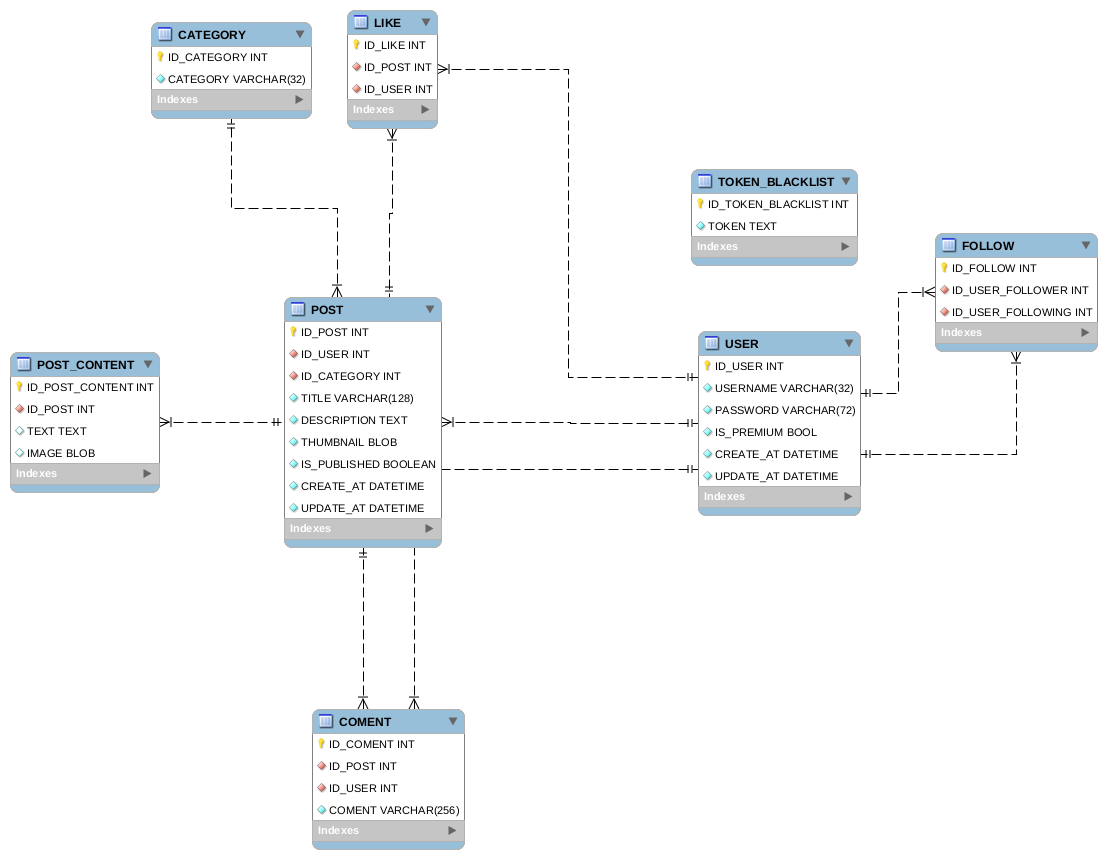
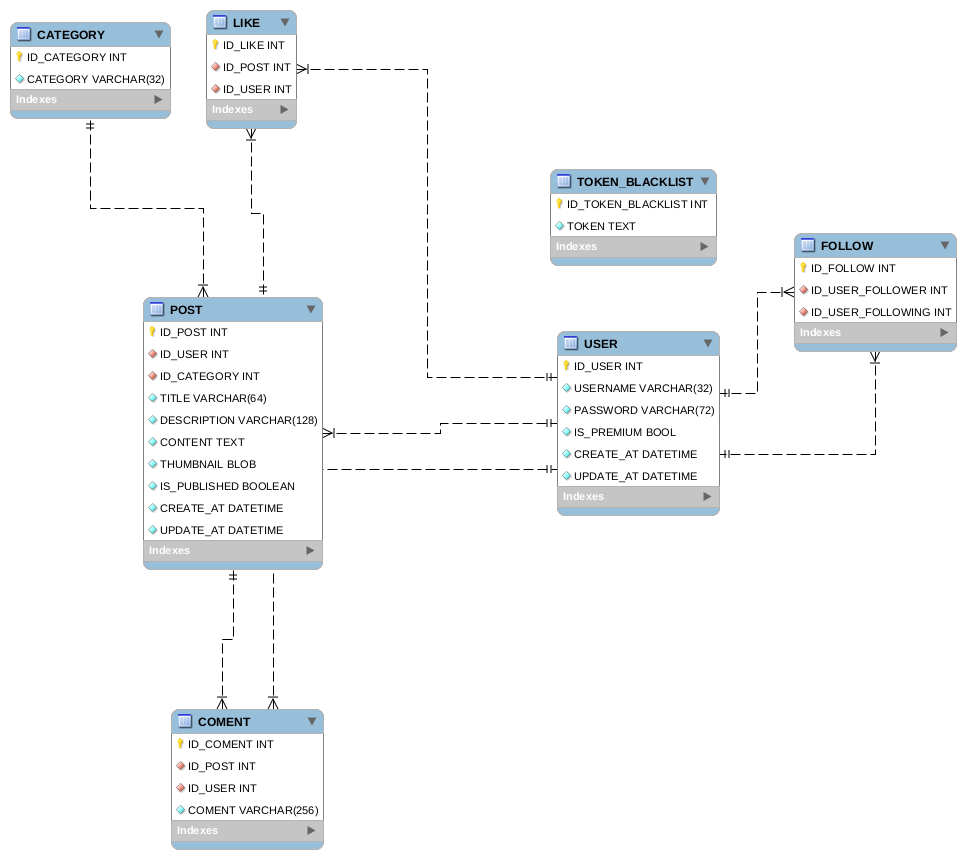
feat(post): return user info in post and remove post_content table

diff --git a/frontend/src/pages/post/[id_post].tsx b/frontend/src/pages/post/[id_post].tsx
@@ -50,7 +50,7 @@ export default function ProfileIndex({
                 <span className="h5 ms-2">{userPostData.username}</span>
               </div>
               <div className="ms-auto">
-              <span className="ms-2">1127</span>
+                <span className="ms-2">1127</span>
                 <button className="btn btn-sm btn-outline-secondary ms-2">
                   <i className="bi bi-heart"></i>
                 </button>
@@ -73,7 +73,7 @@ export default function ProfileIndex({
               <span className="h6 ms-2">.</span>
               <span className="h6 ms-2">.</span>
             </div>
-            
+
 
             <div>
               <Title>Comments</Title>
@@ -92,16 +92,19 @@ export const getServerSideProps: GetServerSideProps = async (ctx) => {
   const authenticationData = await getAuthenticationData(ctx)
   const categoryData = await getCategoryData()
 
+  // get post data
   const { id_post } = ctx.query
   const postData = await getPostData(id_post[0])
-  const userPostData = await getProfileUserData(postData.id_user)
-  const isLoggedUserPost = userPostData.username === authenticationData.user.username
 
   if (Object.keys(postData).length === 0) {
     return {
       notFound: true
     }
   }
+
+  // get post's user data
+  const { user: userPostData } = postData
+  const isLoggedUserPost = userPostData.username === authenticationData.user.username
 
   return {
     props: { authenticationData, categoryData, postData, userPostData, isLoggedUserPost },

diff --git a/frontend/src/libs/services/post.ts b/frontend/src/libs/services/post.ts
@@ -35,7 +35,7 @@ export default class PostService {
   }
 
   static async create(title: string, description: string, thumbnail: string, id_category: number, token: string): Promise<PostInterface> {
-    return await callAPI(urls.post.create, 'POST', { title, description, thumbnail, id_category }, { 'JWT-Token': `Bearer ${token}` })
+    return await callAPI(urls.post.create, 'POST', { title, description, thumbnail, id_category, content: '' }, { 'JWT-Token': `Bearer ${token}` })
   }
 
 }

diff --git a/frontend/src/libs/serverSide/post.ts b/frontend/src/libs/serverSide/post.ts
@@ -1,10 +1,11 @@
 import { CategoryInterface } from "../services/category";
 import PostService from "../services/post";
+import { UserInterface } from "../services/user";
 
 
 export interface PostData {
   id_post?: number
-  id_user?: number
+  user?: UserInterface
   category?: CategoryInterface
   title?: string
   description?: string

diff --git a/backend/api/database/models/post.py b/backend/api/database/models/post.py
@@ -1,6 +1,6 @@
 from typing import Optional
 
-from sqlalchemy import Boolean, Column, DateTime, ForeignKey, Integer, LargeBinary, String, func
+from sqlalchemy import Boolean, Column, DateTime, ForeignKey, Integer, LargeBinary, String, func, Text
 from sqlalchemy.orm import backref, relationship
 from sqlalchemy.sql import expression
 
@@ -14,9 +14,10 @@ class Post(DeclarativeBase, BaseModel):
     ID_POST = Column(Integer, autoincrement=True, nullable=False, primary_key=True, unique=True)
     ID_USER = Column(Integer, ForeignKey('USER.ID_USER', ondelete='CASCADE'), nullable=False, unique=False)
     ID_CATEGORY = Column(Integer, ForeignKey('CATEGORY.ID_CATEGORY', ondelete='CASCADE'), nullable=False, unique=False)
+    THUMBNAIL = Column(LargeBinary, nullable=False, unique=False)
     TITLE = Column(String(64), nullable=False, unique=False, index=True)
     DESCRIPTION = Column(String(128), nullable=False, unique=False)
-    THUMBNAIL = Column(LargeBinary, nullable=False, unique=False)
+    CONTENT = Column(Text, nullable=False, unique=False)
     IS_PUBLISHED = Column(Boolean, nullable=False, unique=False, default=expression.false(), server_default=expression.false())
     CREATED_AT = Column(DateTime, nullable=False, unique=False, default=func.now(), server_default=func.now())
     UPDATED_AT = Column(DateTime, nullable=False, unique=False, default=func.now(), server_default=func.now(), onupdate=func.now(), server_onupdate=func.now())
@@ -30,5 +31,8 @@ class Post(DeclarativeBase, BaseModel):
         if post.get('id_category'):
             post.update(category=self.category.to_dict())
             post.pop('id_category')
+        if post.get('id_user'):
+            post.update(user=self.user.to_dict(exclude=['PROFILE_IMAGE']))
+            post.pop('id_user')
 
         return post

diff --git a/backend/api/modules/v1/post.py b/backend/api/modules/v1/post.py
@@ -75,7 +75,7 @@ def thumbnail(id_post: int, *, connection: DatabaseClient = None) -> bytes:
     return image
 
 
-def create(id_user: int, id_category: int, title: str, description: str, thumbnail: bytes, *, connection: DatabaseClient = None) -> dict:
+def create(id_user: int, id_category: int, title: str, description: str, content: str, thumbnail: bytes, *, connection: DatabaseClient = None) -> dict:
     """Create new user post"""
 
     logger.info(f'Creating new user post with title {title!r}')
@@ -83,7 +83,7 @@ def create(id_user: int, id_category: int, title: str, description: str, thumbna
         category.search(id_category, raise_404=True)
         user.search_by_id(id_user, raise_404=True)
 
-        post = Post(ID_USER=id_user, ID_CATEGORY=id_category, TITLE=title, DESCRIPTION=description, THUMBNAIL=thumbnail)
+        post = Post(ID_USER=id_user, ID_CATEGORY=id_category, TITLE=title, DESCRIPTION=description, CONTENT=content, THUMBNAIL=thumbnail)
         post.insert(connection)
 
         post = post.to_dict()

diff --git a/backend/api/routes/v1/models/post.py b/backend/api/routes/v1/models/post.py
@@ -2,16 +2,19 @@ from datetime import datetime
 
 from pydantic import BaseSettings, Field, validator
 
+from .category import Category
+from .user import User
 from ....modules.v1.utils import from_base64
 
 
 class Post(BaseSettings):
     id_post: int
-    id_user: int
     title: str = Field(max_length=64)
     description: str = Field(max_length=128)
+    content: str
     is_published: bool
-    category: dict
+    user: User
+    category: Category
     created_at: datetime
     updated_at: datetime
 
@@ -23,6 +26,7 @@ class CreateRequest(BaseSettings):
     id_category: int
     title: str = Field(max_length=64)
     description: str = Field(max_length=128)
+    content: str
     thumbnail: bytes
 
     @validator('thumbnail', pre=True)

diff --git a/backend/api/routes/v1/models/user.py b/backend/api/routes/v1/models/user.py
@@ -10,10 +10,10 @@ from ....modules.v1.utils import from_base64
 class User(BaseSettings):
     id_user: int
     username: str = Field(max_length=32)
-    bio: str = None
-    url_linkedin: str = None
-    url_instagram: str = None
-    url_website: str = None
+    bio: Optional[str] = Field(max_length=256)
+    url_linkedin: Optional[str] = Field(max_length=128)
+    url_instagram: Optional[str] = Field(max_length=128)
+    url_website: Optional[str] = Field(max_length=128)
     is_premium: bool
     created_at: datetime
     updated_at: datetime

diff --git a/backend/api/database/models/__init__.py b/backend/api/database/models/__init__.py
@@ -3,6 +3,5 @@ from .comment import Comment  # noqa
 from .follow import Follow  # noqa
 from .like import Like  # noqa
 from .post import Post  # noqa
-from .post_content import PostContent  # noqa
 from .token_blacklist import TokenBlacklist  # noqa
 from .user import User  # noqa
